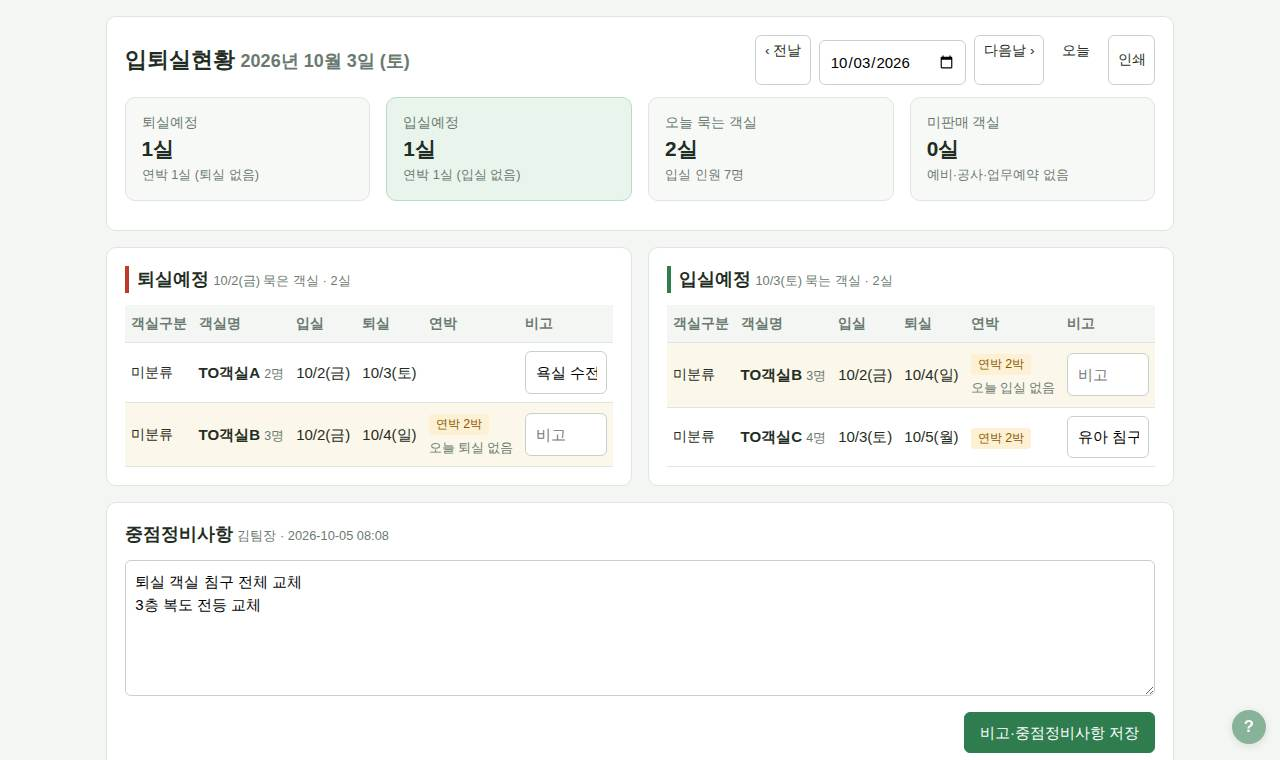
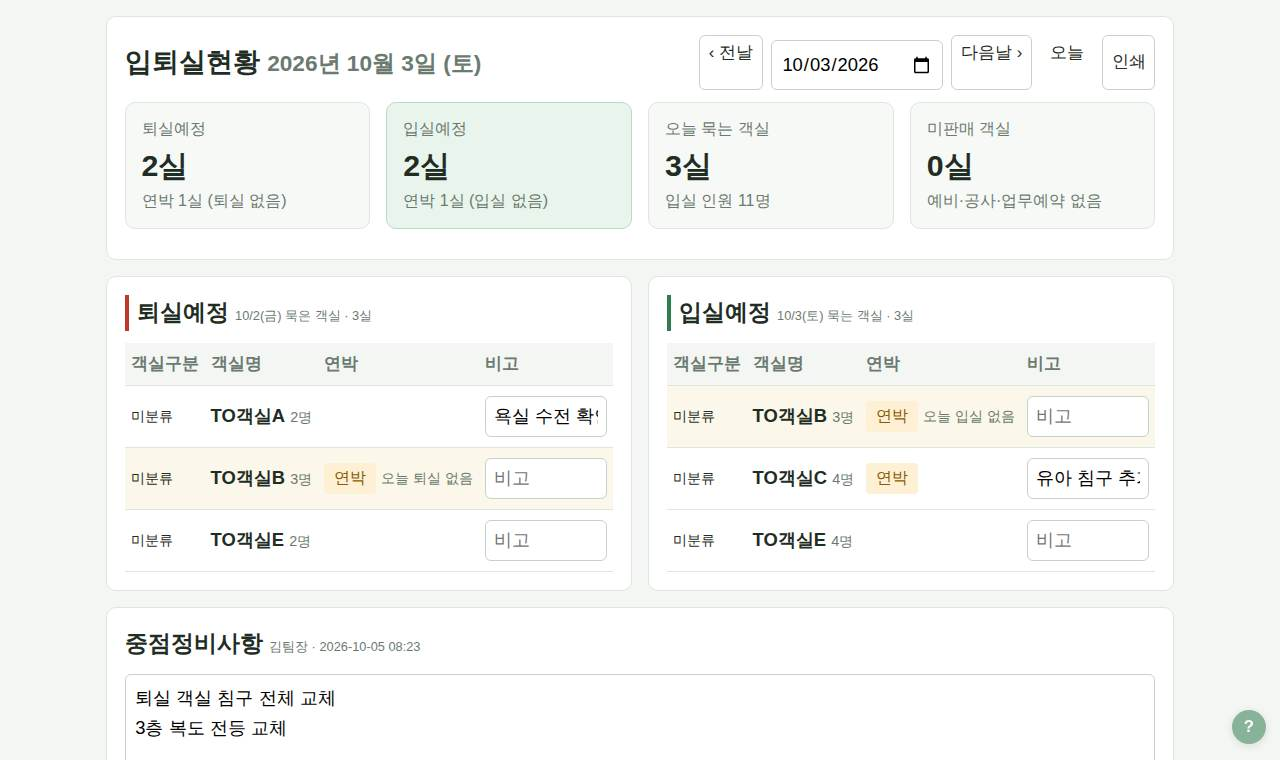
연박 선택(일일객실판매 2·3박, 예약 엑셀 숙박기간으로 자동) + 입퇴실현황: 연박 기준 변경, 입실·퇴실일 칸 제거, 글씨 크게 (DB v46)
Claude-Session: https://claude.ai/code/session_01Lr6yxKyasrSL9QLfMX5TX8

diff --git a/assets/style.css b/assets/style.css
@@ -1189,7 +1189,7 @@ label .tm-pick { display: flex; margin-top: .25rem; }
 .rt-table th { white-space: nowrap; }
 .rt-table th, .rt-table td { padding-left: 6px; padding-right: 6px; }
 .rt-table td input { width: 100%; min-width: 70px; box-sizing: border-box; }
-.rt-table td:last-child { width: 32%; }
+.rt-table td:last-child { width: 45%; }
 .rt-table tr.rt-stay td { background: #fbf7ea; }
 .badge.rt-badge { background: #fdf0d5; color: #8a5a00; }
 @media print {
@@ -1197,3 +1197,17 @@ label .tm-pick { display: flex; margin-top: .25rem; }
   .rt-table td input { border: 0; padding: 0; }
   .rt-form textarea { border: 1px solid #999; min-height: 80px; }
 }
+/* 입퇴실현황: 글씨 크게 */
+.rt-page { font-size: 1.15rem; }
+.rt-page h1 { font-size: 1.7rem; }
+.rt-page h2 { font-size: 1.45rem; }
+.rt-page .kpi b { font-size: 1.9rem; }
+.rt-page .kpi span, .rt-page .kpi small { font-size: 1rem; }
+.rt-page .rt-table { font-size: 1.15rem; }
+.rt-page .rt-table th { font-size: 1.05rem; }
+.rt-page .rt-table td { padding-top: 10px; padding-bottom: 10px; }
+.rt-page .rt-table td input { font-size: 1.1rem; padding: 6px 8px; }
+.rt-page .rt-table small { font-size: .9rem; }
+.rt-page .badge.rt-badge { font-size: 1rem; padding: 3px 10px; }
+.rt-page textarea { font-size: 1.15rem; line-height: 1.6; }
+.rt-page .btn { font-size: 1.05rem; }

diff --git a/room_turnover.php b/room_turnover.php
@@ -2,9 +2,9 @@
 /**
  * 객실관리 › 입퇴실현황: 그 날 퇴실예정(왼쪽)·입실예정(오른쪽) 객실과 비고, 하단 중점정비사항
  *   room_turnover.php[?date=2026-10-04]
- * 입실·퇴실 목록은 일일객실판매(반려 제외, 임시저장 포함)에서 계산한다:
- *   입실예정 = 그 날 판매(묵는) 객실, 퇴실예정 = 전날 판매 객실. 같은 객실이 연달아 판매된 날은 한 번의 연박으로 보고
- *   입실일 = 연속 판매 첫날, 퇴실일 = 마지막 날 다음 날. 연박 중이라 그 날 실제 입실·퇴실이 없는 객실은 '연박'으로 표시한다.
+ * 입실·퇴실 목록은 일일객실판매(반려 제외, 임시저장 포함)에서 계산한다: 입실예정 = 그 날 묵는 객실, 퇴실예정 = 전날 묵은 객실.
+ * 연박은 일일객실판매에서 객실마다 고른 '연박 2·3박'(sales_lines.stay_nights, 예약 엑셀의 숙박기간으로 자동)이 기준 — 그 날부터 그 박수만큼 한 손님.
+ * 연박이 아닌 판매는 연달아 있어도 다른 손님으로 본다. 연박 중이라 그 날 실제 입실·퇴실이 없는 객실은 '오늘 입실(퇴실) 없음'.
  * 비고(객실별)와 중점정비사항(날짜별)은 room_turnover_notes · room_turnover_days 에 저장. 객실관리 메뉴 권한이 있으면 누구나 작성.
  */
 require __DIR__ . '/app/bootstrap.php';
@@ -37,43 +37,51 @@ if (is_post()) {
     redirect('room_turnover.php?date=' . $d);
 }
 
-/** 기간 안의 객실별 판매(묵은) 날짜 [객실 id => [날짜 => 입실 인원]] — 일일객실판매, 반려 제외 */
+/** 기간 안의 객실별 판매(묵은) 날짜 [객실 id => [날짜 => ['g' => 입실 인원, 's' => 연박 박수]]] — 일일객실판매, 반려 제외 */
 function rt_nights(string $from, string $to): array
 {
-    $st = db()->prepare("SELECT l.product_id, j.work_date, SUM(l.guests) AS g FROM journals j JOIN sales_lines l ON l.journal_id = j.id
+    $st = db()->prepare("SELECT l.product_id, j.work_date, SUM(l.guests) AS g, MAX(l.stay_nights) AS s FROM journals j JOIN sales_lines l ON l.journal_id = j.id
                           WHERE j.type = 'rooms' AND j.status <> 'rejected' AND l.grp = 'room' AND j.work_date BETWEEN ? AND ?
-                          GROUP BY l.product_id, j.work_date");
+                          GROUP BY l.product_id, j.work_date ORDER BY j.work_date");
     $st->execute([$from, $to]);
     $out = [];
-    foreach ($st as $r) $out[(int) $r['product_id']][$r['work_date']] = (int) $r['g'];
+    foreach ($st as $r) $out[(int) $r['product_id']][$r['work_date']] = ['g' => (int) $r['g'], 's' => (int) $r['s']];
     return $out;
+}
+
+/**
+ * 객실 하나의 숙박 구간: 연박(2·3박 …)을 고른 날부터 그 박수만큼은 한 손님 (다음 날 줄이 없어도 묵는 것으로 봄),
+ * 연박이 아닌 판매는 하루씩 따로 (연달아 판매돼도 다른 손님).  [['from' => 첫날, 'last' => 마지막 날, 'nights', 'g'], ...]
+ */
+function rt_stays(array $days): array
+{
+    $stays = [];
+    $until = '';
+    foreach ($days as $d => $x) {
+        if ($d <= $until) continue; // 앞선 연박 안의 날
+        $n = max(1, $x['s']);
+        $last = date('Y-m-d', strtotime("$d +" . ($n - 1) . ' days'));
+        $stays[] = ['from' => $d, 'last' => $last, 'nights' => $n, 'g' => $x['g']];
+        $until = $last;
+    }
+    return $stays;
 }
 
 // 연박을 이어 보려고 앞뒤 60일까지 읽는다
 $nights = rt_nights(date('Y-m-d', strtotime("$date -60 days")), date('Y-m-d', strtotime("$date +60 days")));
-/** 그 날 묵는 객실의 연속 판매 구간 → [입실일, 퇴실일, 박수] */
-$span = function (array $set, string $d): array {
-    $s = $d;
-    while (isset($set[date('Y-m-d', strtotime("$s -1 day"))])) $s = date('Y-m-d', strtotime("$s -1 day"));
-    $e = $d;
-    while (isset($set[date('Y-m-d', strtotime("$e +1 day"))])) $e = date('Y-m-d', strtotime("$e +1 day"));
-    $out = date('Y-m-d', strtotime("$e +1 day"));
-    return [$s, $out, (int) round((strtotime($out) - strtotime($s)) / 86400)];
-};
 $rooms = array_filter(products_all(), fn($p) => $p['grp'] === 'room');
 $types = room_types_all();
 $order = fn(array $p) => [(int) ($types[(int) $p['room_type_id']]['sort_order'] ?? 9999), (int) $p['sort_order'], (int) $p['id']];
 $lists = ['out' => [], 'in' => []];
-foreach ($nights as $pid => $set) {
+foreach ($nights as $pid => $days) {
     $p = $rooms[$pid] ?? null;
     if (!$p) continue;
-    if (isset($set[$prev])) { // 전날 묵음 → 오늘 퇴실 (오늘도 묵으면 연박이라 퇴실 없음)
-        [$s, $o, $n] = $span($set, $prev);
-        $lists['out'][$pid] = ['p' => $p, 'from' => $s, 'to' => $o, 'nights' => $n, 'guests' => $set[$prev], 'stay' => isset($set[$date])];
-    }
-    if (isset($set[$date])) { // 오늘 묵음 → 오늘 입실 (전날도 묵었으면 연박이라 입실 없음)
-        [$s, $o, $n] = $span($set, $date);
-        $lists['in'][$pid] = ['p' => $p, 'from' => $s, 'to' => $o, 'nights' => $n, 'guests' => $set[$date], 'stay' => isset($set[$prev])];
+    foreach (rt_stays($days) as $st) {
+        $row = ['p' => $p, 'nights' => $st['nights'], 'guests' => $st['g']];
+        // 퇴실예정: 전날 묵은 객실 — 연박 중이라 오늘도 묵으면 퇴실 없음
+        if ($st['from'] <= $prev && $prev <= $st['last']) $lists['out'][$pid] = $row + ['stay' => $st['last'] > $prev];
+        // 입실예정: 오늘 묵는 객실 — 연박으로 전부터 묵고 있으면 입실 없음
+        if ($st['from'] <= $date && $date <= $st['last']) $lists['in'][$pid] = $row + ['stay' => $st['from'] < $date];
     }
 }
 foreach ($lists as &$l) uasort($l, fn($a, $b) => $order($a['p']) <=> $order($b['p']));
@@ -95,7 +103,7 @@ $count = fn(string $side, bool $stay) => count(array_filter($lists[$side], fn($r
 
 layout_header('입퇴실현황', 'turnover');
 ?>
-<section class="card no-print">
+<section class="card no-print rt-page">
   <div class="card-head">
     <h1>입퇴실현황 <small class="muted"><?= e(date('Y년 n월 j일', strtotime($date))) ?> (<?= e(weekday_ko($date)) ?>)<?= $date === date('Y-m-d') ? ' · 오늘' : '' ?></small></h1>
     <div class="actions no-margin">
@@ -115,7 +123,7 @@ layout_header('입퇴실현황', 'turnover');
   <?php if (!$todayDoc): ?><p class="small warn">이 날 일일객실판매가 아직 없어 입실예정이 비어 있을 수 있습니다. <a href="<?= e(url('write.php?type=rooms&date=' . $date)) ?>">객실판매관리에서 작성</a>(입실예정 엑셀로 채우기)하면 여기에 나옵니다.</p><?php endif ?>
 </section>
 
-<form method="post" class="rt-form">
+<form method="post" class="rt-form rt-page">
   <?= csrf_field() ?><input type="hidden" name="date" value="<?= e($date) ?>">
   <h1 class="print-only">입퇴실현황 · <?= e(date('Y년 n월 j일', strtotime($date))) ?> (<?= e(weekday_ko($date)) ?>)</h1>
   <div class="rt-grid">
@@ -124,19 +132,17 @@ layout_header('입퇴실현황', 'turnover');
       <h2><?= $label ?> <small class="muted"><?= $side === 'out' ? $md($prev) . ' 묵은 객실' : $md($date) . ' 묵는 객실' ?> · <?= count($lists[$side]) ?>실</small></h2>
       <div class="table-scroll">
       <table class="table rt-table">
-        <thead><tr><th>객실구분</th><th>객실명</th><th>입실</th><th>퇴실</th><th>연박</th><th>비고</th></tr></thead>
+        <thead><tr><th>객실구분</th><th>객실명</th><th>연박</th><th>비고</th></tr></thead>
         <tbody>
         <?php foreach ($lists[$side] as $pid => $r): ?>
           <tr class="<?= $r['stay'] ? 'rt-stay' : '' ?>">
             <td class="small nowrap"><?= e(room_type_name($r['p']['room_type_id'] ? (int) $r['p']['room_type_id'] : null)) ?></td>
             <td class="nowrap"><b><?= e($r['p']['name']) ?></b> <small class="muted"><?= (int) $r['guests'] ?>명</small></td>
-            <td class="nowrap <?= $side === 'in' && !$r['stay'] ? 'strong' : '' ?>"><?= e($md($r['from'])) ?></td>
-            <td class="nowrap <?= $side === 'out' && !$r['stay'] ? 'strong' : '' ?>"><?= e($md($r['to'])) ?></td>
-            <td class="nowrap"><?= $r['nights'] > 1 ? '<span class="badge rt-badge">연박 ' . (int) $r['nights'] . '박</span>' . ($r['stay'] ? '<br><small class="muted">' . ($side === 'out' ? '오늘 퇴실 없음' : '오늘 입실 없음') . '</small>' : '') : '' ?></td>
+            <td class="nowrap"><?= $r['nights'] > 1 ? '<span class="badge rt-badge">연박</span>' . ($r['stay'] ? ' <small class="muted">' . ($side === 'out' ? '오늘 퇴실 없음' : '오늘 입실 없음') . '</small>' : '') : '' ?></td>
             <td><input name="note[<?= $side ?>][<?= (int) $pid ?>]" value="<?= e($notes[$side][$pid] ?? '') ?>" maxlength="300" placeholder="비고"></td>
           </tr>
         <?php endforeach ?>
-        <?php if (!$lists[$side]): ?><tr><td colspan="6" class="center muted"><?= $label ?> 객실이 없습니다.</td></tr><?php endif ?>
+        <?php if (!$lists[$side]): ?><tr><td colspan="4" class="center muted"><?= $label ?> 객실이 없습니다.</td></tr><?php endif ?>
         </tbody>
       </table>
       </div>
@@ -149,6 +155,6 @@ layout_header('입퇴실현황', 'turnover');
     <div class="actions no-print"><button class="btn primary">비고·중점정비사항 저장</button></div>
   </section>
 </form>
-<p class="muted small no-print">입실·퇴실은 <a href="<?= e(url('journal.php?type=rooms')) ?>">객실관리 › 객실판매관리</a>의 일일객실판매(임시저장 포함, 반려 제외)로 계산합니다. 퇴실예정 = 전날 판매한 객실, 입실예정 = 이 날 판매한 객실이며,
-  같은 객실이 연달아 판매되면 한 번의 연박으로 보고 입실일·퇴실일·박수를 보여 줍니다 (연박 중인 객실은 그 날 입실·퇴실이 없습니다).</p>
+<p class="muted small no-print">입실·퇴실은 <a href="<?= e(url('journal.php?type=rooms')) ?>">객실관리 › 객실판매관리</a>의 일일객실판매(임시저장 포함, 반려 제외)로 계산합니다. 퇴실예정 = 전날 묵은 객실, 입실예정 = 이 날 묵는 객실이며,
+  <b>연박</b>은 일일객실판매에서 고른 '연박 2·3박'(예약 엑셀로 채우면 숙박기간으로 자동)을 기준으로 한 손님이 이어서 묵는 것으로 봅니다.</p>
 <?php layout_footer();

diff --git a/app/items.php b/app/items.php
@@ -150,6 +150,7 @@ function items_parse(string $type, string $workDate, int $journalId): array
                 'rate' => $rate, 'season' => $roomSeason['name'] ?? null, 'discounted' => (int) ($dc && $unit !== room_price($p, $rate)),
                 'dc_reason' => $dc && isset(ROOM_DC_REASONS[$dcReason]) ? $dcReason : null,
                 'unit_price' => $unit, 'qty' => 1, 'guests' => $guests, 'amount' => $unit,
+                'stay_nights' => ($sn = to_int($row['stay'] ?? 0)) >= 2 && $sn <= 30 ? $sn : 0, // 연박 (한 손님 2·3박 …)
                 'refund_expected' => $expected, 'vouchers' => $vouchers,
             ];
         }
@@ -353,12 +354,12 @@ function items_save(int $id, string $type, array $payload): void
     if (in_array($type, SALE_DOC_TYPES, true)) {
         $pdo->prepare('DELETE FROM sales_lines WHERE journal_id = ?')->execute([$id]);
         $ins = $pdo->prepare(
-            'INSERT INTO sales_lines (journal_id, product_id, grp, name, is_free, rate, season, discounted, unit_price, qty, guests, refund_expected, rent_time, night, dc_pct, dc_reason, prog_type, sessions, auto, amount)
-             VALUES (?, ?, ?, ?, ?, ?, ?, ?, ?, ?, ?, ?, ?, ?, ?, ?, ?, ?, ?, ?)'
+            'INSERT INTO sales_lines (journal_id, product_id, grp, name, is_free, rate, season, discounted, unit_price, qty, guests, stay_nights, refund_expected, rent_time, night, dc_pct, dc_reason, prog_type, sessions, auto, amount)
+             VALUES (?, ?, ?, ?, ?, ?, ?, ?, ?, ?, ?, ?, ?, ?, ?, ?, ?, ?, ?, ?, ?)'
         );
         foreach ($payload['lines'] as $l) {
             $ins->execute([$id, $l['product_id'], $l['grp'], $l['name'], $l['is_free'], $l['rate'], $l['season'] ?? null,
-                $l['discounted'], $l['unit_price'], $l['qty'], $l['guests'], $l['refund_expected'] ?? null,
+                $l['discounted'], $l['unit_price'], $l['qty'], $l['guests'], (int) ($l['stay_nights'] ?? 0), $l['refund_expected'] ?? null,
                 $l['rent_time'] ?? null, (int) ($l['night'] ?? 0), (int) ($l['dc_pct'] ?? 0), $l['dc_reason'] ?? null, $l['prog_type'] ?? null, (int) ($l['sessions'] ?? 0), (int) ($l['auto'] ?? 0), $l['amount']]);
             $lineId = (int) $pdo->lastInsertId();
             foreach ($l['vouchers'] ?? [] as $denom => $qty) {
@@ -504,7 +505,7 @@ function items_form(string $type, array $payload, string $workDate, ?array $jour
   <div class="table-scroll">
   <table class="table room-table" data-room-table>
     <thead>
-      <tr><th rowspan="2">객실</th><th rowspan="2">요금구분</th><th rowspan="2">할인</th><th rowspan="2" class="right">단가</th><th rowspan="2">입실인원</th><th rowspan="2" class="right">금액</th>
+      <tr><th rowspan="2">객실</th><th rowspan="2">요금구분</th><th rowspan="2">할인</th><th rowspan="2" class="right">단가</th><th rowspan="2">입실인원</th><th rowspan="2" title="한 손님이 연속으로 묵을 때 (입퇴실현황에 '연박' 표시)">연박</th><th rowspan="2" class="right">금액</th>
         <th colspan="<?= count($denoms) + 1 ?>" class="center refund-head">지역상품권 환급 (매수)</th></tr>
       <tr><?php foreach ($denoms as $d): ?><th class="refund-head"><?= e(denom_label($d)) ?></th><?php endforeach ?><th class="right refund-head">환급액 / 기준</th></tr>
     </thead>
@@ -523,6 +524,10 @@ function items_form(string $type, array $payload, string $workDate, ?array $jour
           </select></td>
         <td class="right" data-unit>0</td>
         <td><input name="room[<?= $pid ?>][guests]" value="<?= e(($l['guests'] ?? 0) ?: '') ?>" inputmode="numeric" class="num tiny" data-money data-guests></td>
+        <td><?php $sn = (int) ($l['stay_nights'] ?? 0); ?><select name="room[<?= $pid ?>][stay]" class="stay-select" aria-label="연박">
+          <option value="">-</option>
+          <?php foreach (array_unique([2, 3, ...($sn > 3 ? [$sn] : [])]) as $n): ?><option value="<?= $n ?>" <?= $sn === $n ? 'selected' : '' ?>><?= $n ?>박</option><?php endforeach ?>
+        </select></td>
         <td class="right" data-line-amount>0</td>
         <?php foreach ($denoms as $d): ?>
           <td class="refund-cell"><input name="room[<?= $pid ?>][v][<?= $d ?>]" value="<?= e(($l['vouchers'][$d] ?? 0) ?: '') ?>" inputmode="numeric" class="num tiny" data-money data-vdenom="<?= $d ?>"></td>
@@ -531,14 +536,14 @@ function items_form(string $type, array $payload, string $workDate, ?array $jour
       </tr>
     <?php endforeach ?>
     <?php if ($unassigned): ?>
-      <tr class="unassigned"><td colspan="6">객실 미지정 환급 <small class="muted">(이전 버전에서 입력한 자료)</small></td>
+      <tr class="unassigned"><td colspan="7">객실 미지정 환급 <small class="muted">(이전 버전에서 입력한 자료)</small></td>
         <?php foreach ($denoms as $d): ?>
           <td class="refund-cell"><input name="voucher_out[<?= $d ?>]" value="<?= e(($payload['vouchers'][$d] ?? 0) ?: '') ?>" inputmode="numeric" class="num tiny" data-money data-vdenom="<?= $d ?>"></td>
         <?php endforeach ?>
         <td class="refund-cell"></td></tr>
     <?php endif ?>
     </tbody>
-    <tfoot><tr><th colspan="4">객실 합계 <small class="muted" data-room-count></small></th><th class="right" data-room-guests>0</th><th class="right" data-room-amount>0</th>
+    <tfoot><tr><th colspan="4">객실 합계 <small class="muted" data-room-count></small></th><th class="right" data-room-guests>0</th><th></th><th class="right" data-room-amount>0</th>
       <?php foreach ($denoms as $d): ?><th class="right refund-cell" data-vsum="<?= $d ?>">0</th><?php endforeach ?><th class="right refund-cell" data-vsum-amt>0</th></tr></tfoot>
   </table>
   </div>
@@ -838,7 +843,7 @@ function items_view(array $journal): void
     <?php foreach ($rooms as $l):
         $refund = voucher_amount($l['vouchers']);
         $mismatch = $l['refund_expected'] !== null && $refund !== (int) $l['refund_expected']; ?>
-      <tr class="<?= $mismatch ? 'issue' : '' ?>"><td><?= e($l['name']) ?></td>
+      <tr class="<?= $mismatch ? 'issue' : '' ?>"><td><?= e($l['name']) ?><?= (int) ($l['stay_nights'] ?? 0) > 1 ? ' <span class="badge rt-badge">연박 ' . (int) $l['stay_nights'] . '박</span>' : '' ?></td>
         <td><?= e(RATE_TYPES[$l['rate']] ?? '') ?><?= $l['season'] ? ' <small class="muted">(' . e($l['season']) . ')</small>' : '' ?><?= $l['discounted'] ? ' <span class="badge st-pending">할인' . (!empty($l['dc_reason']) ? ' · ' . e(ROOM_DC_REASONS[$l['dc_reason']] ?? $l['dc_reason']) : '') . '</span>' : '' ?></td>
         <td class="right"><?= number_format($l['unit_price']) ?></td>
         <td class="right"><?= number_format($l['guests']) ?></td><td class="right"><?= number_format($l['amount']) ?></td>

diff --git a/app/rooms_xls.php b/app/rooms_xls.php
@@ -85,7 +85,7 @@ function rooms_xls_product(string $name, array $products): ?array
 }
 
 /** 객실 판매 줄 하나 (items_parse 의 일일객실판매 줄과 같은 모양) */
-function rooms_xls_line(array $p, string $date, int $guests, string $dcText, array $vouchers): array
+function rooms_xls_line(array $p, string $date, int $guests, string $dcText, array $vouchers, int $nights = 1): array
 {
     $rate = rate_for_date($date);
     $reason = $dcText !== '' ? rooms_xls_dc_reason($dcText) : null;
@@ -94,7 +94,8 @@ function rooms_xls_line(array $p, string $date, int $guests, string $dcText, arr
     $season = $rate === 'peak' ? season_for('room', $date) : null;
     return ['product_id' => (int) $p['id'], 'grp' => 'room', 'name' => $p['name'], 'is_free' => 0, 'rate' => $rate, 'season' => $season['name'] ?? null,
         'discounted' => (int) ($dc && $unit !== room_price($p, $rate)), 'dc_reason' => $reason, 'unit_price' => $unit, 'qty' => 1, 'guests' => max(0, $guests),
-        'amount' => $unit, 'refund_expected' => room_refund($p, $rate), 'vouchers' => $vouchers ?: array_fill_keys(voucher_denoms(), 0)];
+        'amount' => $unit, 'refund_expected' => room_refund($p, $rate), 'vouchers' => $vouchers ?: array_fill_keys(voucher_denoms(), 0),
+        'stay_nights' => $nights > 1 ? min($nights, 30) : 0]; // 숙박기간 '2박3일' → 연박 2박 (1박2일은 연박 아님)
 }
 
 /**
@@ -113,7 +114,7 @@ function rooms_fill_apply(array $payload, array $fill, string $workDate): array
         if (!$p) { $rep['unknown'][$s['room']] = true; continue; }
         $pid = (int) $p['id'];
         if (isset($lines[$pid])) { $rep['warn'][] = "{$p['name']}: 같은 날 예약이 2건이라 첫 예약만 넣었습니다."; continue; }
-        $line = rooms_xls_line($p, $workDate, $s['guests'], $s['dc'], $old[$pid]['vouchers'] ?? []);
+        $line = rooms_xls_line($p, $workDate, $s['guests'], $s['dc'], $old[$pid]['vouchers'] ?? [], $s['nights']);
         $unit = $line['unit_price'];
         if ($s['dc'] !== '' && !$line['dc_reason']) $rep['warn'][] = "{$p['name']}: 할인적용 '{$s['dc']}'에 맞는 할인사유가 없어 직접 골라야 합니다.";
         $max = (int) $p['max_people'];
@@ -121,9 +122,9 @@ function rooms_fill_apply(array $payload, array $fill, string $workDate): array
         elseif ($max > 0 && $s['guests'] > $max) $rep['warn'][] = "{$p['name']}: 입실 {$s['guests']}명이 최대인원({$max}명)을 넘습니다.";
         $perNight = $s['nights'] > 0 ? intdiv($s['amount'], $s['nights']) : $s['amount'];
         if ($s['amount'] && $perNight !== $unit) $rep['warn'][] = "{$p['name']}: 엑셀 결제금액 " . number_format($s['amount']) . '원' . ($s['nights'] > 1 ? " ({$s['nights']}박)" : '') . ' ≠ 사이트 금액 ' . number_format($unit) . '원 — 요금구분·할인을 확인하세요.';
-        if ($s['nights'] > 1) $rep['warn'][] = "{$p['name']}: {$s['nights']}박 예약(" . date('n.j', strtotime($s['from'])) . '~' . date('n.j', strtotime($s['to'])) . ') — 다른 날짜의 객실판매에도 입력해야 합니다.';
+        if ($s['nights'] > 1) $rep['warn'][] = "{$p['name']}: {$s['nights']}박 예약(" . date('n.j', strtotime($s['from'])) . '~' . date('n.j', strtotime($s['to'])) . ") — 연박 {$s['nights']}박으로 골랐습니다. 다음 날 객실판매에도 이 객실을 입력하세요.";
         $lines[$pid] = $line;
-        $rep['rooms'][] = ['name' => $p['name'], 'guests' => $s['guests'], 'dc' => $s['dc']];
+        $rep['rooms'][] = ['name' => $p['name'], 'guests' => $s['guests'], 'dc' => $s['dc'], 'nights' => $s['nights']];
         $rep['guests'] += $s['guests'];
     }
     $rep['cancel'] = $fill['cancel'];
@@ -157,7 +158,7 @@ function rooms_fill_panel(string $workDate, ?array $journal, ?array $rep): void
   <?php if ($rep && $fill): ?>
   <div class="flash flash-success"><b><?= e(date('Y.n.j', strtotime($fill['date']))) ?></b> 입실 예약 <?= count($rep['rooms']) ?>실 · <?= number_format($rep['guests']) ?>명으로 채웠습니다. <b>아직 저장되지 않았습니다</b> — 아래 내용을 확인하고 저장하세요.</div>
   <ul class="small sales-fill-list">
-    <li>객실: <?= e(implode(' / ', array_map(fn($r) => $r['name'] . ' ' . $r['guests'] . '명' . ($r['dc'] !== '' ? ' (' . $r['dc'] . ')' : ''), $rep['rooms']))) ?></li>
+    <li>객실: <?= e(implode(' / ', array_map(fn($r) => $r['name'] . ' ' . $r['guests'] . '명' . (($r['nights'] ?? 1) > 1 ? ' 연박 ' . $r['nights'] . '박' : '') . ($r['dc'] !== '' ? ' (' . $r['dc'] . ')' : ''), $rep['rooms']))) ?></li>
     <?php if ($rep['cancel']): ?><li>취소된 예약 <?= (int) $rep['cancel'] ?>건은 뺐습니다.</li><?php endif ?>
     <?php if ($fill['others']): ?><li>이 날 묵지 않는 예약 <?= (int) $fill['others'] ?>건(다른 날짜)은 넣지 않았습니다.</li><?php endif ?>
     <?php if ($rep['unknown']): ?><li class="warn">사이트에 없는 객실: <?= e(implode(', ', array_keys($rep['unknown']))) ?> — 설정 › 상품·요금의 객실 이름을 엑셀과 같게 맞춰 주세요.</li><?php endif ?>
@@ -204,9 +205,9 @@ function rooms_out_plan(array $stays, array $user): array
             if (!$p) { $item['unknown'][$s['room']] = true; continue; }
             $pid = (int) $p['id'];
             if (isset($item['rooms'][$pid])) { $item['warn'][] = "{$p['name']}: 같은 날 예약이 2건이라 첫 예약만 넣습니다."; continue; }
-            $line = rooms_xls_line($p, $date, $s['guests'], $s['dc'], $old[$pid]['vouchers'] ?? []);
+            $line = rooms_xls_line($p, $date, $s['guests'], $s['dc'], $old[$pid]['vouchers'] ?? [], $s['nights']);
             $o = $old[$pid] ?? null;
-            $how = !$o ? 'add' : (((int) $o['guests'] !== $line['guests'] || (int) $o['discounted'] !== $line['discounted'] || ($o['dc_reason'] ?? null) !== $line['dc_reason'] || $o['rate'] !== $line['rate']) ? 'change' : 'same');
+            $how = !$o ? 'add' : (((int) $o['guests'] !== $line['guests'] || (int) $o['discounted'] !== $line['discounted'] || ($o['dc_reason'] ?? null) !== $line['dc_reason'] || $o['rate'] !== $line['rate'] || (int) ($o['stay_nights'] ?? 0) !== $line['stay_nights']) ? 'change' : 'same');
             if ($how !== 'same') $item['changed']++;
             if ($s['dc'] !== '' && !$line['dc_reason']) $item['warn'][] = "{$p['name']}: 할인적용 '{$s['dc']}'에 맞는 할인사유가 없어 할인 없이 넣습니다 — 저장 후 직접 고르세요.";
             if ($line['guests'] <= 0) $item['warn'][] = "{$p['name']}: 입실 인원이 비어 있습니다.";

diff --git a/app/help.php b/app/help.php
@@ -192,6 +192,7 @@ HTML],
     <b>지난 날짜들의 일일객실판매</b>를 미리보기로 보여 줍니다. '반영하기'를 누르면 없는 날은 새로 만들고(결재 올리기 또는 임시저장), 있는 날은 엑셀의 객실만 추가·수정합니다
     (엑셀에 없는 객실·지역상품권 환급·메모는 그대로). 이미 결재를 올린 문서를 고치면 수정 이력이 남고 결재가 처음부터 다시 올라갑니다. 다른 사람의 임시저장 문서는 고치지 않습니다.</li>
   <li>판매한 객실의 <b>입실인원</b>만 입력하면 판매로 잡힙니다. 요금구분(성수기·비수기 주말·평일)은 날짜로 자동 선택(금·토와 <b>공휴일 전날</b>은 주말 — 일정표에 '공휴일'로 등록된 날 기준), <b>할인</b> 체크 시 할인율 적용.</li>
+  <li><b>연박</b>: 한 손님이 이어서 묵으면 입실한 날 객실의 연박 칸에서 <b>2박·3박</b>을 고릅니다 (예약 엑셀로 채우기는 숙박기간으로 자동). 입퇴실현황의 '연박' 표시 기준입니다.</li>
   <li>할인에 체크하면 옆의 <b>할인사유</b>(다자녀·지역주민·장애인·단체)를 꼭 고릅니다. 고르지 않으면 붉게 표시되고 저장되지 않습니다. 사유는 보기 화면과 수정 이력에 나옵니다. 사유가 <b>단체</b>이면 설정의 단체 할인율이 적용됩니다(설정했을 때).</li>
   <li><b>지역상품권 환급</b>: 객실별 권종 매수. 기준 환급액과 다르면 붉게 표시되고 저장 시 확인합니다. 아래에 환급 합계와 남은 재고.</li>
   <li>저장하면 그 날 매출보고의 쉬자파크숙박(입실)과 다음 날 (퇴실)이 자동으로 맞춰집니다.</li>
@@ -200,8 +201,8 @@ HTML],
             ['id' => 'turnover', 'title' => '입퇴실현황', 'keys' => ['turnover'], 'img' => ['turnover.jpg' => '입퇴실현황'], 'body' => <<<'HTML'
 <p>그 날의 <b>퇴실예정</b>(왼쪽)과 <b>입실예정</b>(오른쪽) 객실을 한눈에 봅니다. 날짜를 바꾸거나 전날·다음날로 지난 날짜의 입퇴실 현황도 봅니다.</p>
 <ul>
-  <li>표: <b>객실구분 · 객실명(인원) · 입실 · 퇴실 · 연박 · 비고</b>. 퇴실예정 = 전날 묵은 객실, 입실예정 = 그 날 묵는 객실 (객실판매관리의 일일객실판매 기준, 임시저장 포함).</li>
-  <li>같은 객실이 연달아 판매되면 한 번의 <b>연박</b>으로 보고 '연박 N박'으로 표시합니다. 연박 중이라 그 날 실제 입실·퇴실이 없는 객실은 노란 줄로 '오늘 입실(퇴실) 없음'이 나옵니다.</li>
+  <li>표: <b>객실구분 · 객실명(인원) · 연박 · 비고</b>. 퇴실예정 = 전날 묵은 객실, 입실예정 = 그 날 묵는 객실 (객실판매관리의 일일객실판매 기준, 임시저장 포함).</li>
+  <li><b>연박</b>은 일일객실판매에서 객실마다 고른 <b>연박 2박·3박</b>이 기준입니다 (예약 엑셀로 채우면 숙박기간 2박3일 → 2박, 3박4일 → 3박 자동, 1박2일은 연박 아님). 그 날부터 그 박수만큼 한 손님으로 보고 '연박'으로 표시하며, 연박 중이라 그 날 실제 입실·퇴실이 없는 객실은 노란 줄로 '오늘 입실(퇴실) 없음'이 나옵니다. 연박을 고르지 않은 판매는 연달아 있어도 다른 손님으로 봅니다.</li>
   <li><b>비고</b>는 객실마다 직접 적고, 아래 <b>중점정비사항</b>에 그 날 정비할 내용을 적은 뒤 '저장'합니다. 인쇄하면 좌우 표와 중점정비사항이 한 장에 나옵니다.</li>
   <li>그 날 일일객실판매가 아직 없으면 입실예정이 비어 있으니, 객실판매관리에서 먼저 작성(입실예정 엑셀로 채우기)하세요.</li>
 </ul>

diff --git a/app/changelog.php b/app/changelog.php
@@ -7,6 +7,10 @@ defined('APP_ROOT') || exit;
  *   ['date' => 'YYYY-MM-DD', 'title' => '한 줄 요약', 'items' => ['자세한 내용', ...], 'menu' => '관련 메뉴(선택)']
  */
 const CHANGELOG = [
+    ['date' => '2026-10-05', 'title' => '연박 선택 · 입퇴실현황 개선', 'menu' => '객실관리', 'items' => [
+        '일일객실판매에서 객실마다 연박(2박·3박)을 고를 수 있습니다. 예약 엑셀로 채우면 숙박기간 2박3일 → 2박, 3박4일 → 3박으로 자동 선택됩니다 (1박2일은 선택 안 함).',
+        "입퇴실현황은 고른 연박을 기준으로 한 손님이 이어서 묵는 객실만 '연박'으로 표시합니다. 입실일·퇴실일 칸을 빼고 글씨를 크게 했습니다.",
+    ]],
     ['date' => '2026-10-04', 'title' => '객실관리 › 입퇴실현황 신설', 'menu' => '객실관리', 'items' => [
         '그 날의 퇴실예정 객실(왼쪽)과 입실예정 객실(오른쪽)을 객실구분·객실명·입실·퇴실·연박·비고 표로 한눈에 봅니다. 날짜를 골라 지난 날짜도 봅니다.',
         '연달아 판매된 객실은 연박(N박)으로 표시하고, 객실마다 비고와 하단 중점정비사항을 적어 저장합니다. 입실·퇴실은 객실판매관리의 일일객실판매로 계산합니다.',

diff --git a/app/migrate.php b/app/migrate.php
@@ -6,7 +6,7 @@ defined('APP_ROOT') || exit;
  * 새 버전 파일을 FTP로 덮어쓰기만 하면, 첫 접속 때 부족한 테이블/컬럼을 만든다.
  * (기존 자료는 그대로 유지)
  */
-const DB_VERSION = 45;
+const DB_VERSION = 46;
 
 function db_version(): int
 {
@@ -403,6 +403,11 @@ function db_migrate(): void
     // 44) v43 → v44: 객실 미판매 기간 room_blocks (예비객실·공사·업무예약, 1) 단계에서 생성) — 객실관리 › 객실운영관리, 객실 가동률에서 제외
 
     // 45) v44 → v45: 입퇴실현황의 중점정비사항 room_turnover_days · 객실별 비고 room_turnover_notes (1) 단계에서 생성)
+
+    // 46) v45 → v46: 일일객실판매 객실별 연박(한 손님이 묵는 박수 2·3박) — 입퇴실현황의 연박 기준
+    if (!column_exists('sales_lines', 'stay_nights')) {
+        $pdo->exec("ALTER TABLE sales_lines ADD stay_nights TINYINT UNSIGNED NOT NULL DEFAULT 0 COMMENT '객실 연박: 한 손님이 묵는 박수 (2·3박 …, 0 = 1박)' AFTER guests");
+    }
 
     $pdo->prepare("INSERT INTO settings (name, value) VALUES ('db_version', ?) ON DUPLICATE KEY UPDATE value = VALUES(value)")
         ->execute([(string) DB_VERSION]);

diff --git a/app/revisions.php b/app/revisions.php
@@ -80,7 +80,7 @@ function journal_snapshot(array $journal): array
             } else {
                 $refund = $vouchersText($l['vouchers'] ?? []);
                 $lines[] = "{$l['name']} · " . (RATE_TYPES[$l['rate']] ?? '') . ($l['discounted'] ? ' · 할인' . (!empty($l['dc_reason']) ? '(' . (ROOM_DC_REASONS[$l['dc_reason']] ?? $l['dc_reason']) . ')' : '') : '')
-                    . ' · ' . $l['guests'] . '명 · ' . number_format($l['amount']) . '원' . ($refund ? " · 환급 $refund" : '');
+                    . ' · ' . $l['guests'] . '명' . ((int) ($l['stay_nights'] ?? 0) > 1 ? ' · 연박 ' . (int) $l['stay_nights'] . '박' : '') . ' · ' . number_format($l['amount']) . '원' . ($refund ? " · 환급 $refund" : '');
             }
         }
         $snap['판매 내역'] = $lines;

diff --git a/README.md b/README.md
@@ -248,7 +248,8 @@
   - **현금**: 현금으로 받은 금액을 적으면 카드 금액(합계 − 현금)이 자동 계산됩니다. 현금이 없으면 비워두세요.
 - **객실** (일일객실판매에서 입력): 객실명마다 한 실이므로 객실수는 없고, 판매한 객실의 **입실인원**만 입력하면 판매로 잡힙니다.
   - **입퇴실현황** (`room_turnover.php?date=`): 일일객실판매(`journals` type rooms, 반려 제외·임시저장 포함)의 객실별 판매 날짜로 계산 —
-    퇴실예정 = 전날 판매 객실, 입실예정 = 그 날 판매 객실. 연속 판매일을 한 번의 연박으로 묶어 입실일(첫날)·퇴실일(마지막 날+1)·박수, 연박 중이라 그 날 입·퇴실이 없으면 표시.
+    퇴실예정 = 전날 묵은 객실, 입실예정 = 그 날 묵는 객실. 연박은 객실 줄의 `sales_lines.stay_nights`(DB v46, 일일객실판매의 '연박 2·3박' 선택, 예약 엑셀은 숙박기간 N박으로 자동)가 기준:
+    `rt_stays()`가 그 날부터 N박을 한 손님으로 묶음(다음 날 줄이 없어도 묵는 것으로 봄), 연박이 아닌 판매는 하루씩 따로. 표는 객실구분·객실명·연박·비고(글씨 크게).
     객실별 비고(`room_turnover_notes`: 날짜·out/in·객실)와 중점정비사항(`room_turnover_days`)을 저장 (DB v45). 좌우 표 인쇄.
   - **객실운영관리** (`room_ops.php`, 객실관리 메뉴): 판매하지 않는 객실(`room_blocks`, DB v44: 객실·사유 `ROOM_BLOCK_REASONS` 예비객실/공사/업무예약·시작일·종료일(NULL = 해제할 때까지)·메모)을
     여러 객실 한꺼번에 등록, 같은 객실 기간 겹침 금지, '오늘부터 판매'(종료일 = 어제), 고치기·삭제. `room_block_map($from, $to)` = [날짜 => [객실 id => 사유]].
